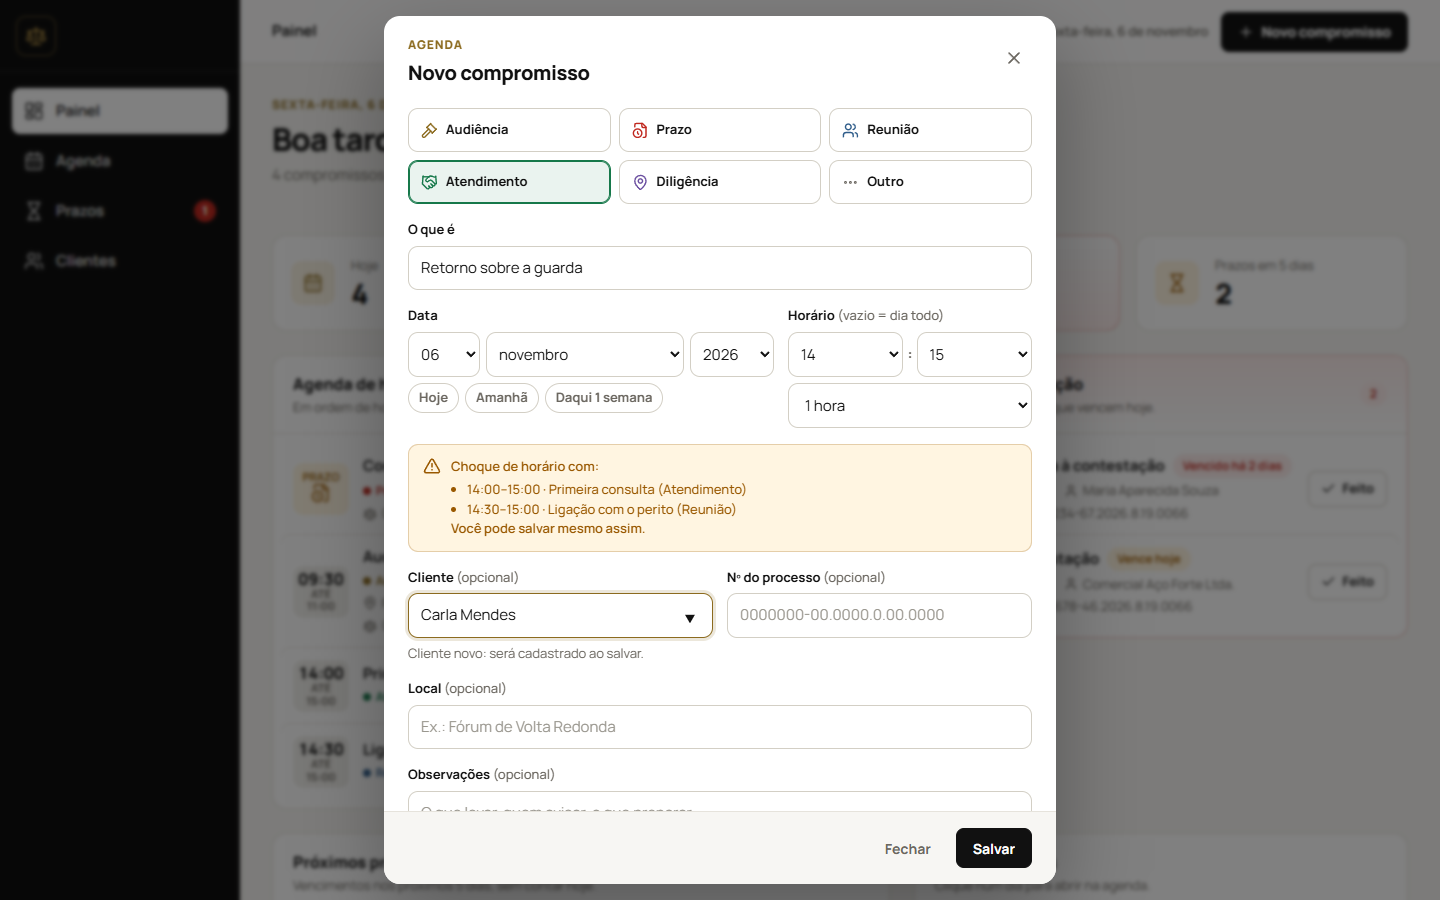
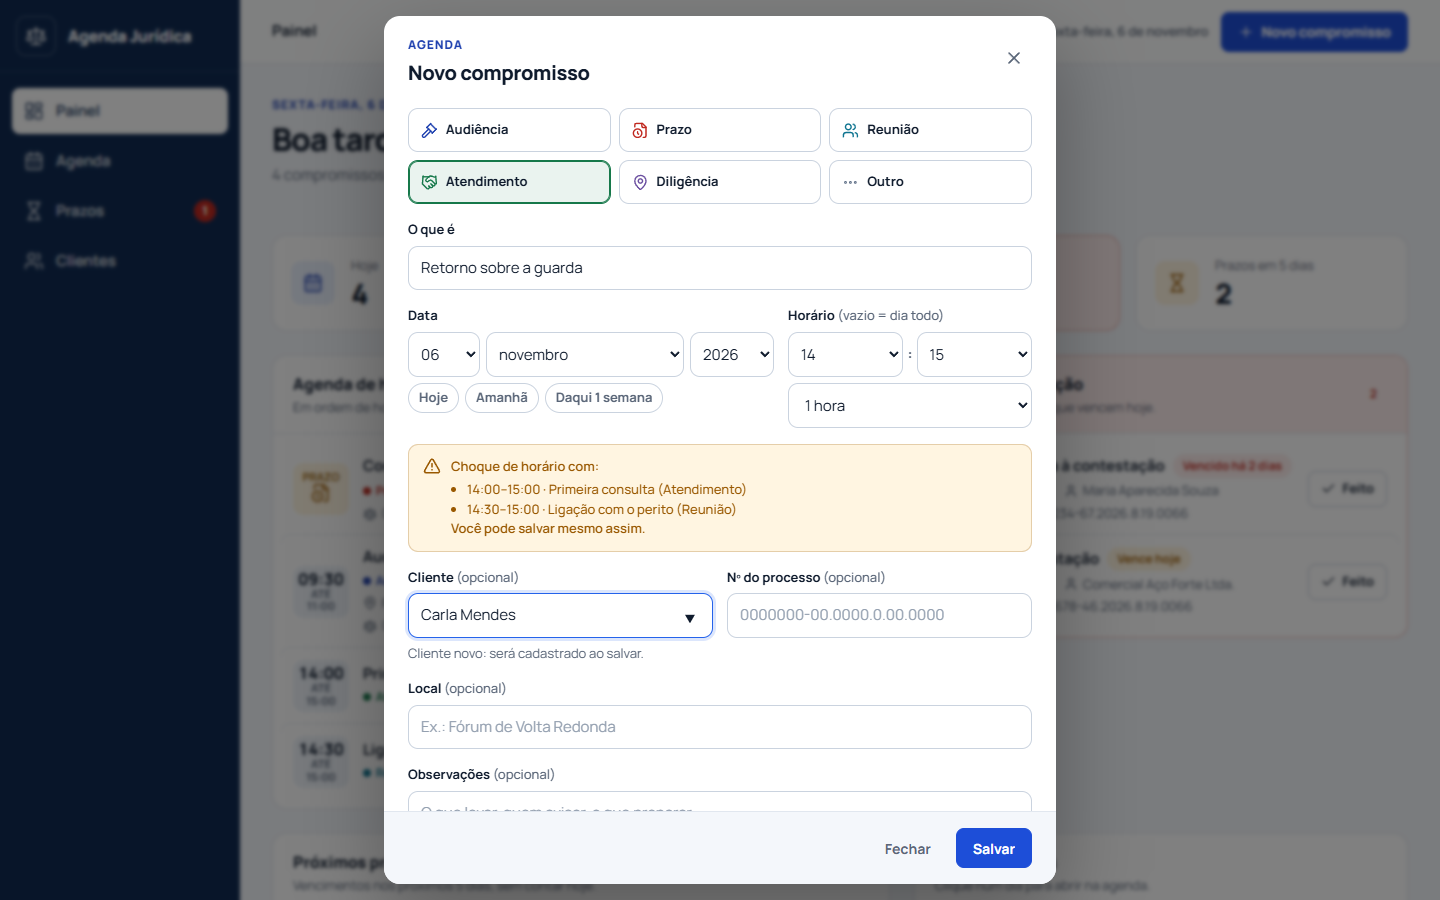
style(frontend): paleta azul e branco e "Agenda Jurídica" ao lado do ícone
Troca o preto e dourado por azul-marinho no menu, azul nos botões e destaques e fundo branco. Os degradês dos cartões de alerta viram tons chapados, e a fonte serifada, que só servia ao visual anterior, sai do projeto.

diff --git a/src/main/resources/static/assets/styles.css b/src/main/resources/static/assets/styles.css
@@ -1,44 +1,31 @@
-/* Fontes servidas pela própria aplicação: nada de requisição para fora (LGPD e CSP). */
+/* Fonte servida pela própria aplicação: nada de requisição para fora (LGPD e CSP). */
 @font-face {
   font-family: "Manrope";
   src: url("/assets/fonts/manrope-latin-wght.woff2") format("woff2");
   font-weight: 200 800;
   font-display: swap;
 }
-@font-face {
-  font-family: "Cormorant Garamond";
-  src: url("/assets/fonts/cormorant-garamond-latin-600.woff2") format("woff2");
-  font-weight: 600;
-  font-display: swap;
-}
-@font-face {
-  font-family: "Cormorant Garamond";
-  src: url("/assets/fonts/cormorant-garamond-latin-700.woff2") format("woff2");
-  font-weight: 700;
-  font-display: swap;
-}
 
 :root {
   --font-sans: "Manrope", system-ui, -apple-system, "Segoe UI", sans-serif;
-  --font-brand: "Cormorant Garamond", Georgia, serif;
 
-  --bg: #f7f6f3;
+  --bg: #f4f7fb;
   --surface: #ffffff;
-  --surface-strong: #f0efeb;
-  --surface-hover: #fbfaf7;
-  --border: #e6e3dc;
-  --border-strong: #d3cfc5;
-  --foreground: #111111;
-  --muted: #6b6760;
-  --faint: #a3a097;
+  --surface-strong: #edf2f8;
+  --surface-hover: #f7f9fc;
+  --border: #e1e7ef;
+  --border-strong: #cad3df;
+  --foreground: #0f1b2d;
+  --muted: #5a6678;
+  --faint: #9aa5b4;
 
-  --primary: #111111;
-  --primary-strong: #000000;
-  --sidebar: #0e0e0e;
-  --gold: #c9a14a;
-  --gold-dark: #8c6b1f;
-  --gold-soft: #faf3e3;
-  --focus: #8c6b1f;
+  --primary: #1d4ed8;
+  --primary-strong: #1e40af;
+  --sidebar: #0f2a52;
+  --accent: #2563eb;
+  --accent-strong: #1e40af;
+  --accent-soft: #eaf1fe;
+  --focus: #2563eb;
 
   --success: #16784a;
   --success-soft: #e9f6ef;
@@ -48,13 +35,13 @@
   --danger-strong: #a21f18;
   --danger-soft: #fdeeed;
 
-  /* Cor de cada tipo de compromisso: só em marcadores pequenos, o resto segue preto e dourado. */
-  --type-hearing: #8c6b1f;
+  /* Cor de cada tipo de compromisso: só em marcadores pequenos, o resto segue azul e branco. */
+  --type-hearing: #1e40af;
   --type-deadline: #c0281f;
-  --type-meeting: #2f5d8a;
+  --type-meeting: #0e7490;
   --type-client: #16784a;
   --type-diligence: #6b4fa0;
-  --type-other: #6b6760;
+  --type-other: #64748b;
 
   --radius: 0.875rem;
   --radius-sm: 0.625rem;
@@ -84,7 +71,7 @@ button, input, select, textarea { font: inherit; color: inherit; }
 button, a { -webkit-tap-highlight-color: transparent; }
 a { color: inherit; }
 [hidden] { display: none !important; }
-::selection { background: #f1e3bf; color: #000; }
+::selection { background: #dbeafe; color: var(--foreground); }
 
 .sr-only {
   position: absolute; width: 1px; height: 1px; padding: 0; margin: -1px;
@@ -105,13 +92,13 @@ a { color: inherit; }
 
 .eyebrow {
   font-size: 0.75rem; font-weight: 800; letter-spacing: 0.08em; text-transform: uppercase;
-  color: var(--gold-dark);
+  color: var(--accent-strong);
 }
 .muted { color: var(--muted); }
 .optional { font-weight: 500; color: var(--muted); }
 .hint { font-size: 0.8125rem; color: var(--muted); }
 .hint:empty { display: none; }
-.link { font-size: 0.875rem; font-weight: 700; color: var(--gold-dark); text-decoration: none; white-space: nowrap; }
+.link { font-size: 0.875rem; font-weight: 700; color: var(--accent-strong); text-decoration: none; white-space: nowrap; }
 .link:hover { text-decoration: underline; }
 
 /* ---------- Botões ---------- */
@@ -131,7 +118,7 @@ a { color: inherit; }
 .button--primary { background: var(--primary); border-color: var(--primary); color: white; }
 .button--primary:hover:not(:disabled) { background: var(--primary-strong); }
 .button--secondary { background: white; border-color: var(--border-strong); color: var(--foreground); }
-.button--secondary:hover:not(:disabled) { border-color: rgb(140 107 31 / 0.35); background: var(--gold-soft); }
+.button--secondary:hover:not(:disabled) { border-color: rgb(37 99 235 / 0.35); background: var(--accent-soft); }
 .button--ghost { background: transparent; color: var(--muted); }
 .button--ghost:hover:not(:disabled) { background: var(--surface-strong); color: var(--foreground); }
 .button--danger { background: var(--danger); border-color: var(--danger); color: white; }
@@ -142,7 +129,7 @@ a { color: inherit; }
 
 @media (hover: hover) and (pointer: fine) {
   .button:hover:not(:disabled) { transform: translateY(-1px); }
-  .button--primary:hover:not(:disabled) { box-shadow: 0 8px 20px rgb(140 107 31 / 0.24); }
+  .button--primary:hover:not(:disabled) { box-shadow: 0 8px 20px rgb(37 99 235 / 0.24); }
   .button--secondary:hover:not(:disabled) { box-shadow: 0 7px 18px rgb(0 0 0 / 0.08); }
 }
 
@@ -168,9 +155,9 @@ a { color: inherit; }
   transition: background-color 150ms ease, color 150ms ease, border-color 150ms ease;
 }
 .chip .icon { width: 0.875rem; height: 0.875rem; }
-.chip:hover { border-color: rgb(140 107 31 / 0.4); background: var(--gold-soft); color: var(--gold-dark); }
+.chip:hover { border-color: rgb(37 99 235 / 0.4); background: var(--accent-soft); color: var(--accent-strong); }
 .chip:focus-visible { outline: 2px solid var(--focus); outline-offset: 2px; }
-.chip--gold { border-color: rgb(140 107 31 / 0.35); background: var(--gold-soft); color: var(--gold-dark); }
+.chip--accent { border-color: rgb(37 99 235 / 0.35); background: var(--accent-soft); color: var(--accent-strong); }
 
 /* ---------- Formulários ---------- */
 
@@ -185,9 +172,9 @@ a { color: inherit; }
   background: white; padding: 0.625rem 0.75rem;
   transition: border-color 150ms ease, box-shadow 150ms ease;
 }
-.control::placeholder { color: #9a978f; }
-.control:hover { border-color: #bdb8ad; }
-.control:focus-visible { border-color: var(--focus); outline: none; box-shadow: 0 0 0 3px rgb(140 107 31 / 0.16); }
+.control::placeholder { color: #94a0b0; }
+.control:hover { border-color: #b4bfcd; }
+.control:focus-visible { border-color: var(--focus); outline: none; box-shadow: 0 0 0 3px rgb(37 99 235 / 0.16); }
 .control[aria-invalid="true"] { border-color: var(--danger); }
 textarea.control { resize: vertical; min-height: 5rem; }
 select.control { cursor: pointer; }
@@ -229,7 +216,7 @@ select.control { cursor: pointer; }
 .inline-calc {
   display: grid; gap: 0.75rem; align-items: end;
   grid-template-columns: minmax(0, 1.6fr) 6rem auto;
-  padding: 0.875rem; border: 1px dashed rgb(140 107 31 / 0.45); border-radius: var(--radius-sm); background: var(--gold-soft);
+  padding: 0.875rem; border: 1px dashed rgb(37 99 235 / 0.45); border-radius: var(--radius-sm); background: var(--accent-soft);
 }
 .inline-calc .hint { grid-column: 1 / -1; }
 @media (max-width: 36rem) { .inline-calc { grid-template-columns: 1fr 1fr; } .inline-calc .field:first-child { grid-column: 1 / -1; } }
@@ -261,10 +248,11 @@ select.control { cursor: pointer; }
 .brand:focus-visible { outline: 2px solid white; outline-offset: 3px; }
 .brand-mark {
   display: grid; place-items: center; flex: none;
-  width: 2.5rem; height: 2.5rem; border: 1px solid rgb(201 161 74 / 0.45); border-radius: 0.625rem;
-  color: var(--gold);
+  width: 2.5rem; height: 2.5rem; border: 1px solid rgb(255 255 255 / 0.25); border-radius: 0.625rem;
+  color: white;
 }
 .brand-mark .icon { width: 1.375rem; height: 1.375rem; stroke-width: 1.6; }
+.brand-name { font-size: 1rem; font-weight: 800; letter-spacing: -0.01em; color: white; white-space: nowrap; }
 
 .sidebar-icon-button {
   display: none; place-items: center; flex: none;
@@ -330,7 +318,6 @@ select.control { cursor: pointer; }
 .page-header { display: flex; align-items: flex-end; justify-content: space-between; gap: 1rem; flex-wrap: wrap; }
 .page-header > div:first-child { display: grid; gap: 0.375rem; }
 .page-title { font-size: clamp(1.5rem, 2.2vw, 2rem); font-weight: 800; line-height: 1.2; letter-spacing: -0.035em; }
-.page-title--brand { font-family: var(--font-brand); font-size: clamp(2rem, 3vw, 2.625rem); font-weight: 700; letter-spacing: -0.01em; }
 .page-description { max-width: 44rem; font-size: 0.9375rem; color: var(--muted); }
 
 .surface { border: 1px solid var(--border); border-radius: var(--radius); background: var(--surface); overflow: hidden; }
@@ -339,10 +326,10 @@ select.control { cursor: pointer; }
   padding: 1rem 1.25rem; border-bottom: 1px solid var(--border);
 }
 .surface-head h2 { display: flex; align-items: center; gap: 0.5rem; font-size: 1rem; font-weight: 800; }
-.surface-head h2 .icon { width: 1.125rem; height: 1.125rem; color: var(--gold-dark); }
+.surface-head h2 .icon { width: 1.125rem; height: 1.125rem; color: var(--accent-strong); }
 .surface-head p { margin-top: 0.125rem; font-size: 0.8125rem; color: var(--muted); }
 .surface--attention.has-items { border-color: rgb(192 40 31 / 0.3); }
-.surface--attention.has-items .surface-head { background: linear-gradient(180deg, var(--danger-soft), white); }
+.surface--attention.has-items .surface-head { background: var(--danger-soft); }
 
 .pill {
   display: inline-flex; align-items: center; gap: 0.375rem;
@@ -353,7 +340,7 @@ select.control { cursor: pointer; }
 .pill--danger { background: var(--danger-soft); color: var(--danger); }
 .pill--warning { background: var(--warning-soft); color: var(--warning); }
 .pill--success { background: var(--success-soft); color: var(--success); }
-.pill--gold { background: var(--gold-soft); color: var(--gold-dark); }
+.pill--accent { background: var(--accent-soft); color: var(--accent-strong); }
 
 /* ---------- Indicadores ---------- */
 
@@ -369,14 +356,14 @@ select.control { cursor: pointer; }
 .stat:nth-child(2) { animation-delay: 50ms; }
 .stat:nth-child(3) { animation-delay: 100ms; }
 .stat:nth-child(4) { animation-delay: 150ms; }
-.stat:hover { border-color: rgb(140 107 31 / 0.3); box-shadow: 0 10px 24px rgb(0 0 0 / 0.07); transform: translateY(-2px); }
+.stat:hover { border-color: rgb(37 99 235 / 0.3); box-shadow: 0 10px 24px rgb(0 0 0 / 0.07); transform: translateY(-2px); }
 .stat:focus-visible { outline: 2px solid var(--focus); outline-offset: 2px; }
-.stat-icon { display: grid; place-items: center; flex: none; width: 2.75rem; height: 2.75rem; border-radius: 0.625rem; background: var(--gold-soft); color: var(--gold-dark); }
+.stat-icon { display: grid; place-items: center; flex: none; width: 2.75rem; height: 2.75rem; border-radius: 0.625rem; background: var(--accent-soft); color: var(--accent-strong); }
 .stat--danger .stat-icon { background: var(--danger-soft); color: var(--danger); }
 .stat--warning .stat-icon { background: var(--warning-soft); color: var(--warning); }
 .stat-label { display: block; font-size: 0.8125rem; color: var(--muted); }
 .stat-value { display: block; margin-top: 0.125rem; font-size: 1.75rem; font-weight: 800; line-height: 1.1; font-variant-numeric: tabular-nums; }
-.stat--danger.has-value { border-color: rgb(192 40 31 / 0.3); background: linear-gradient(180deg, #fff, var(--danger-soft)); }
+.stat--danger.has-value { border-color: rgb(192 40 31 / 0.3); background: var(--danger-soft); }
 .stat--danger.has-value .stat-value { color: var(--danger); }
 
 @media (max-width: 72rem) { .stats { grid-template-columns: repeat(2, minmax(0, 1fr)); } }
@@ -435,7 +422,7 @@ select.control { cursor: pointer; }
 .action:focus-visible { outline: 2px solid var(--focus); outline-offset: 2px; }
 .action:disabled { opacity: 0.55; cursor: wait; }
 .action--icon { width: 2.25rem; padding: 0; }
-.action--gold:hover:not(:disabled) { border-color: rgb(140 107 31 / 0.35); background: var(--gold-soft); color: var(--gold-dark); }
+.action--accent:hover:not(:disabled) { border-color: rgb(37 99 235 / 0.35); background: var(--accent-soft); color: var(--accent-strong); }
 
 @media (max-width: 36rem) {
   .row { flex-wrap: wrap; }
@@ -457,10 +444,10 @@ select.control { cursor: pointer; }
 .day-bar:focus-visible { outline: 2px solid var(--focus); outline-offset: 2px; }
 .day-bar-track { display: flex; align-items: flex-end; width: 100%; max-width: 2.75rem; height: 7.5rem; border-radius: 0.5rem; background: var(--surface-strong); overflow: hidden; }
 .day-bar-fill { width: 100%; height: calc(var(--value, 0) * 1%); min-height: 0.25rem; border-radius: 0.5rem 0.5rem 0 0; background: var(--border-strong); transform-origin: bottom; animation: grow 600ms var(--ease-out) both; }
-.day-bar.has-items .day-bar-fill { background: var(--gold); }
+.day-bar.has-items .day-bar-fill { background: var(--accent); }
 .day-bar-count { font-size: 0.875rem; font-weight: 800; font-variant-numeric: tabular-nums; }
 .day-bar-day { font-size: 0.75rem; font-weight: 700; color: var(--muted); text-transform: capitalize; }
-.day-bar.is-today .day-bar-day { color: var(--gold-dark); }
+.day-bar.is-today .day-bar-day { color: var(--accent-strong); }
 .day-bar.is-closed .day-bar-day { color: var(--faint); }
 
 /* ---------- Agenda: calendário do mês ---------- */
@@ -486,7 +473,7 @@ select.control { cursor: pointer; }
 .cell:focus-visible { outline: 2px solid var(--focus); outline-offset: -2px; position: relative; z-index: 1; }
 .cell.is-outside { background: var(--bg); }
 .cell.is-outside .cell-day { color: var(--faint); }
-.cell.is-weekend { background: #fcfbf9; }
+.cell.is-weekend { background: #f9fbfd; }
 .cell.is-selected { box-shadow: inset 0 0 0 2px var(--primary); }
 .cell-head { display: flex; align-items: center; justify-content: space-between; gap: 0.25rem; }
 .cell-day {
@@ -494,7 +481,7 @@ select.control { cursor: pointer; }
   font-size: 0.8125rem; font-weight: 800; font-variant-numeric: tabular-nums;
 }
 .cell.is-today .cell-day { background: var(--primary); color: white; }
-.cell-closed { overflow: hidden; font-size: 0.625rem; font-weight: 700; text-overflow: ellipsis; white-space: nowrap; color: var(--gold-dark); }
+.cell-closed { overflow: hidden; font-size: 0.625rem; font-weight: 700; text-overflow: ellipsis; white-space: nowrap; color: var(--accent-strong); }
 .cell-items { display: grid; gap: 0.2rem; min-width: 0; }
 .cell-item {
   overflow: hidden; padding: 0.125rem 0.375rem; border-radius: 0.3rem;
@@ -519,7 +506,7 @@ select.control { cursor: pointer; }
 .legend { display: flex; flex-wrap: wrap; gap: 0.5rem 1rem; margin: 0; padding: 0.75rem 1rem; list-style: none; }
 .legend li { font-size: 0.75rem; }
 
-.day-closed { margin: 0.5rem 0.5rem 0; padding: 0.5rem 0.75rem; border-radius: 0.5rem; background: var(--gold-soft); color: var(--gold-dark); font-size: 0.8125rem; font-weight: 700; }
+.day-closed { margin: 0.5rem 0.5rem 0; padding: 0.5rem 0.75rem; border-radius: 0.5rem; background: var(--accent-soft); color: var(--accent-strong); font-size: 0.8125rem; font-weight: 700; }
 
 /* ---------- Prazos ---------- */
 
@@ -531,18 +518,18 @@ select.control { cursor: pointer; }
 .calc-result {
   grid-column: 1 / -1;
   display: flex; align-items: center; justify-content: space-between; gap: 1rem; flex-wrap: wrap;
-  padding: 1rem 1.125rem; border: 1px solid rgb(140 107 31 / 0.3); border-radius: var(--radius-sm); background: var(--gold-soft);
+  padding: 1rem 1.125rem; border: 1px solid rgb(37 99 235 / 0.3); border-radius: var(--radius-sm); background: var(--accent-soft);
   animation: rise 300ms var(--ease-out) both;
 }
-.calc-result strong { display: block; font-family: var(--font-brand); font-size: 1.625rem; font-weight: 700; line-height: 1.15; }
+.calc-result strong { display: block; font-size: 1.5rem; font-weight: 800; line-height: 1.2; letter-spacing: -0.02em; }
 .calc-result p { font-size: 0.8125rem; color: var(--muted); }
-.calc-result ul { margin: 0.375rem 0 0; padding-left: 1rem; font-size: 0.8125rem; color: var(--gold-dark); }
+.calc-result ul { margin: 0.375rem 0 0; padding-left: 1rem; font-size: 0.8125rem; color: var(--accent-strong); }
 @media (max-width: 48rem) { .calc-body { grid-template-columns: 1fr; } .calc-submit { margin-top: 0; } }
 
 .deadline-groups { display: grid; gap: 1.5rem; }
 .deadline-group .surface-head h2 .count { font-size: 0.8125rem; font-weight: 700; color: var(--muted); }
 .deadline-group--overdue { border-color: rgb(192 40 31 / 0.3); }
-.deadline-group--overdue .surface-head { background: linear-gradient(180deg, var(--danger-soft), white); }
+.deadline-group--overdue .surface-head { background: var(--danger-soft); }
 .deadline-group--overdue .surface-head h2 { color: var(--danger); }
 
 /* ---------- Clientes ---------- */
@@ -560,14 +547,14 @@ select.control { cursor: pointer; }
   transition: border-color 150ms ease, box-shadow 200ms ease, transform 200ms var(--ease-out);
   animation: rise 360ms var(--ease-out) both;
 }
-.client-card:hover { border-color: rgb(140 107 31 / 0.3); box-shadow: 0 10px 24px rgb(0 0 0 / 0.07); }
+.client-card:hover { border-color: rgb(37 99 235 / 0.3); box-shadow: 0 10px 24px rgb(0 0 0 / 0.07); }
 .client-card:focus-visible { outline: 2px solid var(--focus); outline-offset: 2px; }
 .client-head { display: flex; align-items: center; gap: 0.75rem; min-width: 0; }
 .avatar {
   display: grid; place-items: center; flex: none;
   width: 2.75rem; height: 2.75rem; border-radius: 50%;
-  background: var(--sidebar); color: #f3e3bc; font-size: 0.875rem; font-weight: 800;
-  box-shadow: 0 0 0 2px white, 0 0 0 3px var(--gold);
+  background: var(--sidebar); color: #dbeafe; font-size: 0.875rem; font-weight: 800;
+  box-shadow: 0 0 0 2px white, 0 0 0 3px var(--accent);
 }
 .client-name { display: grid; min-width: 0; }
 .client-name strong { overflow: hidden; text-overflow: ellipsis; white-space: nowrap; }
@@ -580,7 +567,7 @@ select.control { cursor: pointer; }
   transition: background-color 150ms ease, border-color 150ms ease, color 150ms ease;
 }
 .contact .icon { width: 0.95rem; height: 0.95rem; }
-.contact:hover { border-color: rgb(140 107 31 / 0.35); background: var(--gold-soft); color: var(--gold-dark); }
+.contact:hover { border-color: rgb(37 99 235 / 0.35); background: var(--accent-soft); color: var(--accent-strong); }
 .contact--whatsapp:hover { border-color: rgb(22 120 74 / 0.35); background: var(--success-soft); color: var(--success); }
 .contact:focus-visible { outline: 2px solid var(--focus); outline-offset: 2px; }
 
@@ -606,7 +593,7 @@ select.control { cursor: pointer; }
 .alert .button { margin-left: auto; }
 
 .skeleton { display: grid; gap: 0.625rem; padding: 0.5rem; }
-.skeleton span { height: 3.5rem; border-radius: var(--radius-sm); background: linear-gradient(90deg, var(--surface-strong) 25%, #f7f6f3 50%, var(--surface-strong) 75%); background-size: 200% 100%; animation: shimmer 1.4s ease infinite; }
+.skeleton span { height: 3.5rem; border-radius: var(--radius-sm); background: linear-gradient(90deg, var(--surface-strong) 25%, #f7f9fc 50%, var(--surface-strong) 75%); background-size: 200% 100%; animation: shimmer 1.4s ease infinite; }
 
 /* ---------- Diálogos ---------- */
 
@@ -646,12 +633,12 @@ select.control { cursor: pointer; }
   box-shadow: 0 12px 32px rgb(0 0 0 / 0.25);
   animation: toast-in 320ms var(--ease-out) both;
 }
-.toast > .icon { color: var(--gold); }
+.toast > .icon { color: #93c5fd; }
 .toast button {
-  margin-left: 0.5rem; padding: 0.25rem 0.625rem; border: 1px solid rgb(201 161 74 / 0.5); border-radius: 0.375rem;
-  background: transparent; color: #f3e3bc; font-size: 0.8125rem; font-weight: 800; cursor: pointer;
+  margin-left: 0.5rem; padding: 0.25rem 0.625rem; border: 1px solid rgb(147 197 253 / 0.5); border-radius: 0.375rem;
+  background: transparent; color: #dbeafe; font-size: 0.8125rem; font-weight: 800; cursor: pointer;
 }
-.toast button:hover { background: rgb(201 161 74 / 0.15); }
+.toast button:hover { background: rgb(147 197 253 / 0.15); }
 .toast.is-leaving { animation: toast-out 220ms ease both; }
 @media (max-width: 36rem) { .toasts { left: 1rem; right: 1rem; } }
 

diff --git a/src/main/resources/static/index.html b/src/main/resources/static/index.html
@@ -3,7 +3,7 @@
 <head>
   <meta charset="UTF-8">
   <meta name="viewport" content="width=device-width, initial-scale=1">
-  <meta name="theme-color" content="#0e0e0e">
+  <meta name="theme-color" content="#0f2a52">
   <title>Pauta · Agenda jurídica</title>
   <link rel="icon" href="/assets/favicon.svg" type="image/svg+xml">
   <link rel="preload" href="/assets/fonts/manrope-latin-wght.woff2" as="font" type="font/woff2" crossorigin>
@@ -49,8 +49,9 @@
   <div id="app" class="shell">
     <aside class="sidebar" id="sidebar" aria-label="Menu lateral">
       <div class="sidebar-head">
-        <a class="brand" href="#painel" aria-label="Ir para o painel">
+        <a class="brand" href="#painel" aria-label="Agenda Jurídica, ir para o painel">
           <span class="brand-mark" aria-hidden="true"><svg class="icon"><use href="#i-scale"/></svg></span>
+          <span class="brand-name">Agenda Jurídica</span>
         </a>
         <button id="close-menu" class="sidebar-icon-button" type="button" aria-label="Fechar menu">
           <svg class="icon"><use href="#i-x"/></svg>
@@ -306,7 +307,7 @@
               <button class="chip" type="button" data-date-shortcut="0">Hoje</button>
               <button class="chip" type="button" data-date-shortcut="1">Amanhã</button>
               <button class="chip" type="button" data-date-shortcut="7">Daqui 1 semana</button>
-              <button class="chip chip--gold" type="button" id="open-inline-calc" hidden><svg class="icon"><use href="#i-calculator"/></svg>Calcular prazo</button>
+              <button class="chip chip--accent" type="button" id="open-inline-calc" hidden><svg class="icon"><use href="#i-calculator"/></svg>Calcular prazo</button>
             </div>
           </div>
           <div class="field">

diff --git a/src/main/resources/static/assets/app.js b/src/main/resources/static/assets/app.js
@@ -247,7 +247,7 @@ function alertPill(item) {
     case 'TODAY': return deadline ? ui.pill('Vence hoje', 'warning') : '';
     case 'UPCOMING': {
       const days = daysBetween(state.today, item.date);
-      return ui.pill(days === 1 ? 'Vence amanhã' : `Vence em ${days} dias`, 'gold');
+      return ui.pill(days === 1 ? 'Vence amanhã' : `Vence em ${days} dias`, 'accent');
     }
     default:
       if (item.status === 'DONE') return ui.pill('Feito', 'success');
@@ -272,7 +272,7 @@ function rowActions(item) {
   if (item.status === 'SCHEDULED') {
     return `<button class="action" type="button" data-action="complete" data-id="${item.id}" aria-label="Marcar ${escapeHtml(item.title)} como feito">${icon('check')}Feito</button>`;
   }
-  return `<button class="action action--gold" type="button" data-action="reopen" data-id="${item.id}" aria-label="Reabrir ${escapeHtml(item.title)}">${icon('reopen')}Reabrir</button>`;
+  return `<button class="action action--accent" type="button" data-action="reopen" data-id="${item.id}" aria-label="Reabrir ${escapeHtml(item.title)}">${icon('reopen')}Reabrir</button>`;
 }
 
 function row(item, { showDate = false, actions = true } = {}) {
